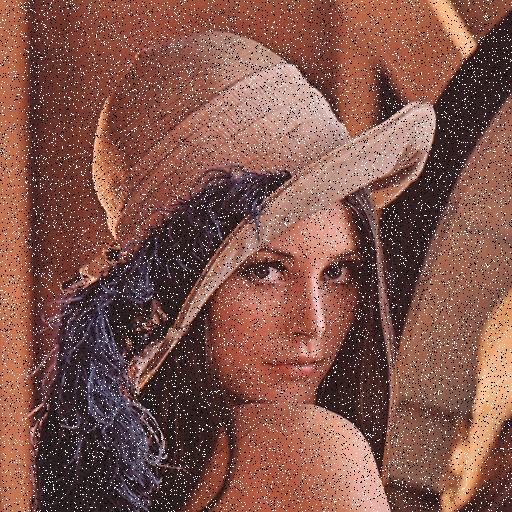
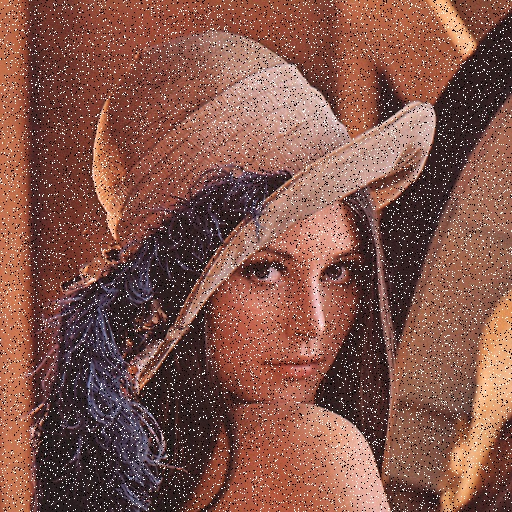
Flipped_both

Changed region(s): [[0.0, 0.0, 1.0, 1.0]]

diff --git a/Processing/ImagesProcessing.py b/Processing/ImagesProcessing.py
@@ -48,3 +48,8 @@ print("End Flip Vertical")
 flipHorizontal = cv2.flip(src, 1)
 cv2.imwrite('images/Flipped_horizontal.png', flipHorizontal)
 print("End Flip Horizontal")
+
+### Flip Both
+flipBoth = cv2.flip(src, -1)
+cv2.imwrite('images/Flipped_both.png', flipBoth)
+print("End Flip Both")
